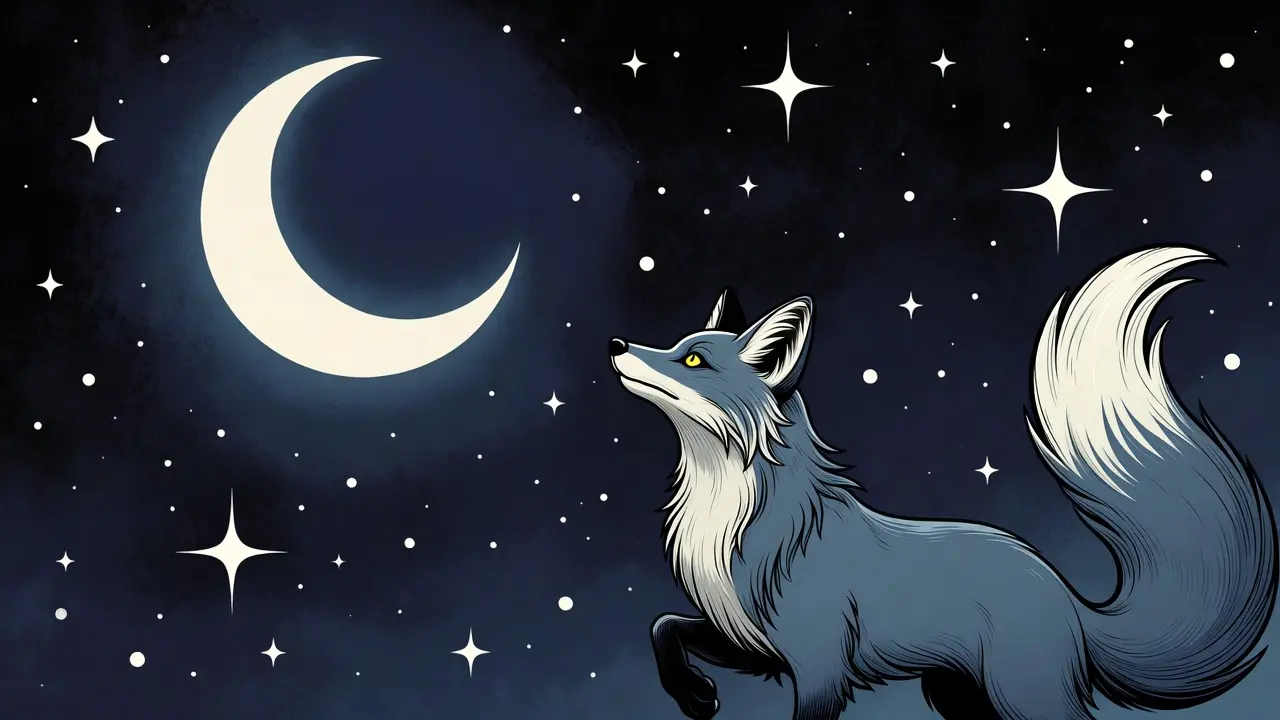
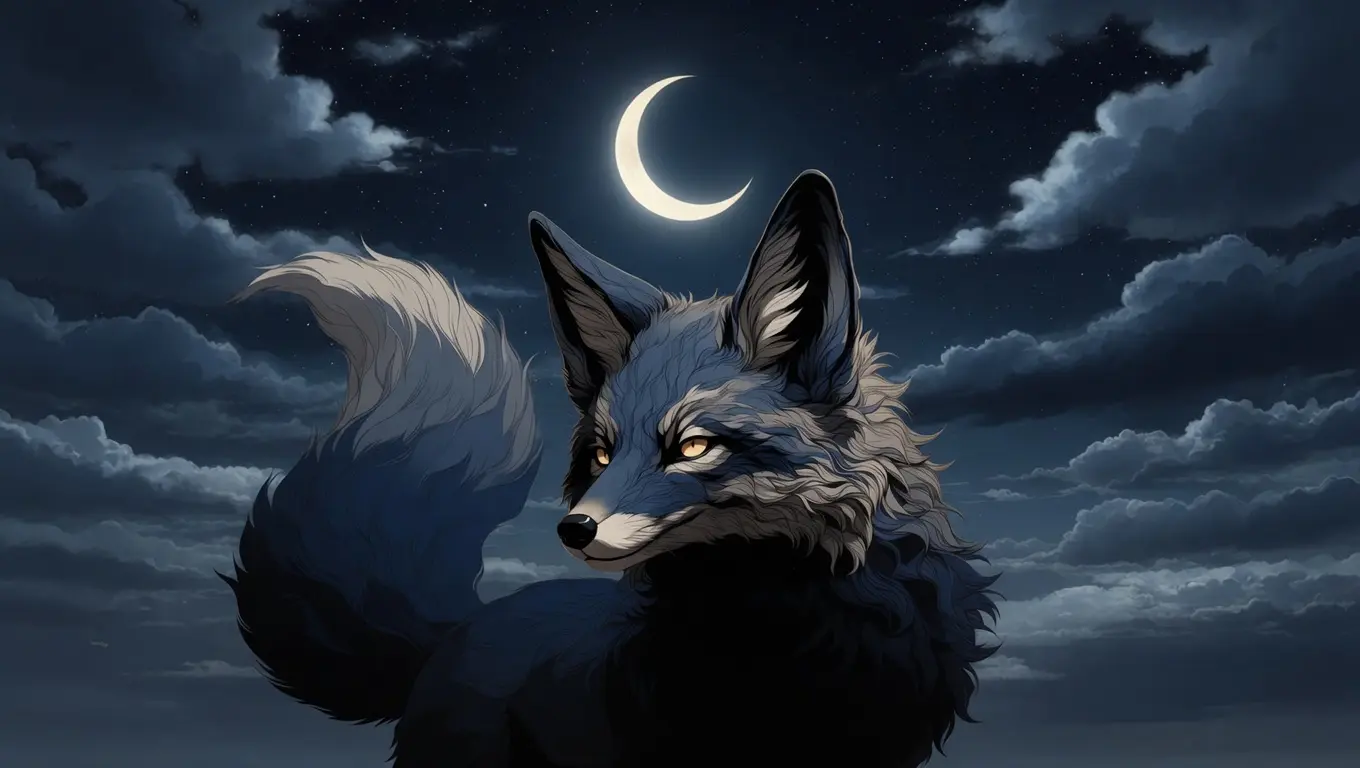
update illust images

diff --git a/README.md b/README.md
@@ -95,4 +95,4 @@ if you want to contribute to this project, please see [CONTRIBUTING.md](https://
 
 The name comes from 'Dal' ([달](https://en.wiktionary.org/wiki/달)) 🌙, the Korean word for 'moon', combined with 'Fox' 🦊.
 
-![](docs/static/images/illust.webp)
+![](docs/static/images/illust2.webp)